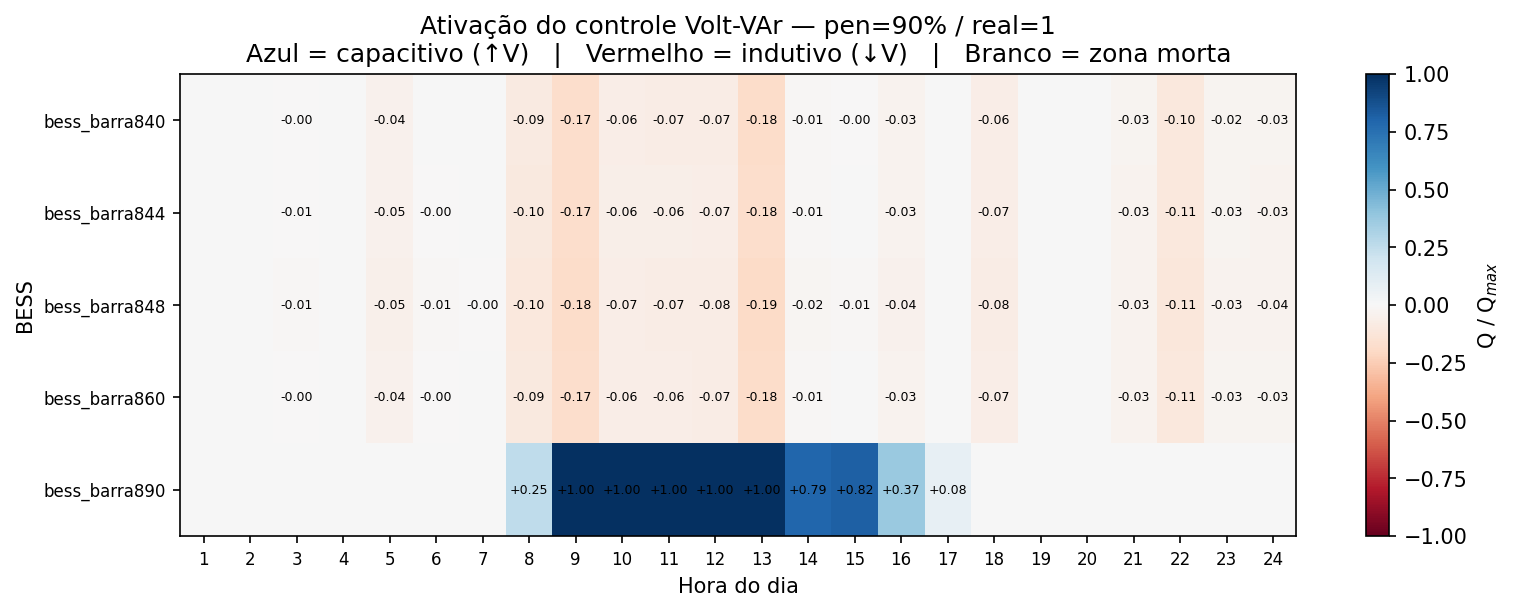
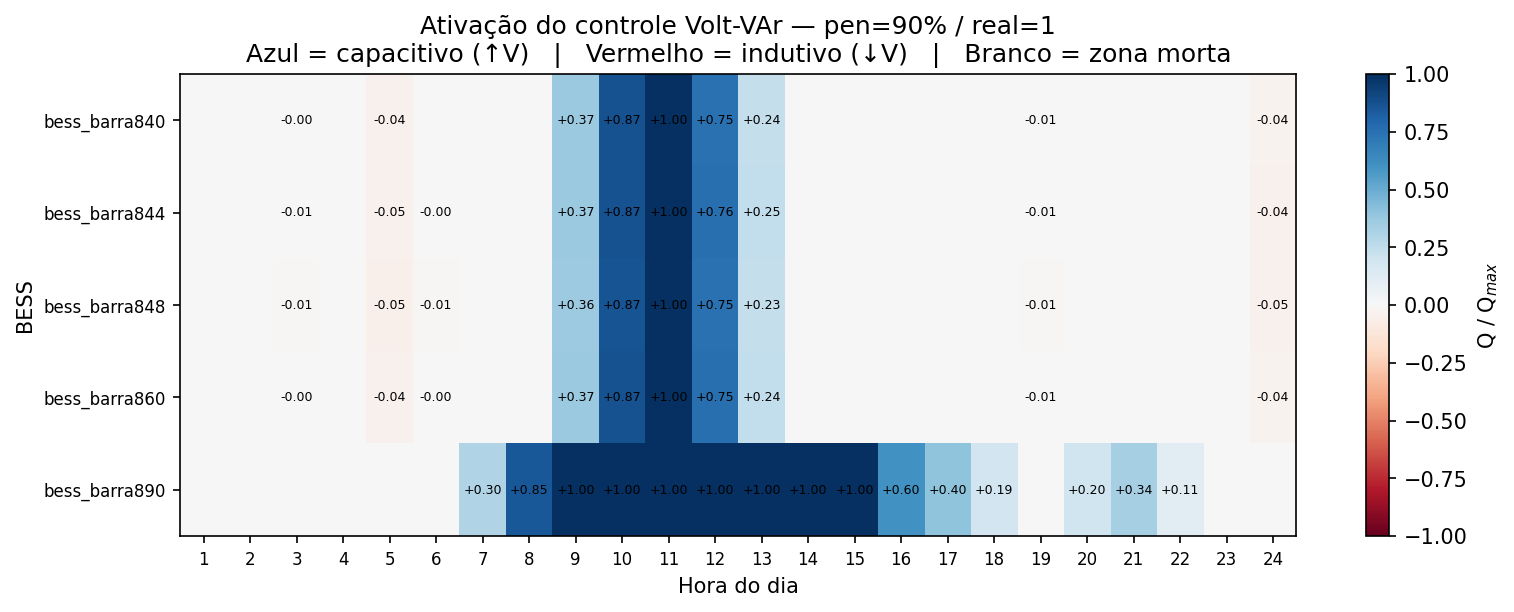
melhorei algoritmo de controle primario e configurei bess para seguir curva diaria

Changed region(s): [[0.2794, 0.0931, 0.8071, 0.9003], [0.6519, 0.1863, 0.683, 0.2173]]

diff --git a/1.5_controle_primario/0_controle_primario.py b/1.5_controle_primario/0_controle_primario.py
@@ -380,7 +380,7 @@ def add_realizacao_elements(pen_pct: int, id_realizacao: int) -> tuple:
             dss.Command(
                 f"New Storage.{nome} Bus1={barra} Phases=3 Conn=Wye "
                 f"kV=24.9 kWrated={p_kw:.2f} kWhrated={e_kwh:.2f} "
-                f"%stored=50 State=Idling daily=BESS_fixo"
+                f"%stored=50 dispmode=follow daily=BESS_fixo"
             )
             print(f"[BESS] '{nome}' | bus={barra} | Pnom={p_kw:.1f} kW | E={e_kwh:.1f} kWh")
             n_bess += 1
@@ -394,6 +394,7 @@ def add_realizacao_elements(pen_pct: int, id_realizacao: int) -> tuple:
 # ---------------------------------------------------------------------------
 # COMPILAR A REDE
 # ---------------------------------------------------------------------------
+dss.Command("Clear")
 dss.Command(f"compile [{BASE_DSS}]")
 n_pv, n_bess, bess_prof, fatores_carga = add_realizacao_elements(PEN_PCT, ID_REALIZACAO)
 
@@ -448,62 +449,44 @@ for hour in range(TOTAL_HOURS):
     print(f"Hora {hour+1:02d}/{TOTAL_HOURS}")
     print(f"{'='*60}")
 
-    # -----------------------------------------------------------------
-    # Passo 1: despacho ativo do BESS e fatores de incerteza de carga
-    # O State/kW precisam ser definidos antes do solve; o OpenDSS Storage
-    # não segue a daily LoadShape automaticamente com State=Idling.
-    # -----------------------------------------------------------------
-    mult = bess_prof[hour]
-    for name, info in bess_dict.items():
-        set_bess_dispatch(name, mult, info["pnom_kw"])
-    aplicar_fatores_carga(hour, cargas_base, fatores_carga)
+    aplicar_fatores_carga(hour, cargas_base, fatores_carga) # cenário
 
     # -----------------------------------------------------------------
-    # Passo 2: daily solve — avança o tempo, aplica LoadShapes corretos
+    # daily solve — avança o tempo, aplica LoadShapes corretos
     # Reguladores habilitados → ajustam taps com base no estado real
     # da rede (incluindo Q_anterior dos BESSs)
     # -----------------------------------------------------------------
-    enable_regulators(reg_names)
     dss.Command("solve")
-    tap_snapshot = capture_taps(reg_names)
-    disable_regulators(reg_names)
 
+    tap_snapshot = capture_taps(reg_names)
     if reg_names:
         for reg, info in tap_snapshot.items():
             print(f"  [Tap hora {hour+1:02d}] {reg}: tap={info['tap']:.6f}")
+    enable_regulators(reg_names)
 
-    # -----------------------------------------------------------------
-    # Passo 3: lê tensão em cada barra de BESS (com Q anterior aplicado)
-    # -----------------------------------------------------------------
+    # lê tensão em cada barra de BESS (com Q anterior aplicado)
     v_measured = {name: get_bus_vmag_pu(info["bus"]) for name, info in bess_dict.items()}
 
-    # -----------------------------------------------------------------
-    # Passo 4: UMA avaliação da curva Volt-VAr
-    # -----------------------------------------------------------------
+    # UMA avaliação da curva Volt-VAr
     q_new = {
         name: volt_var_curve(v_measured[name], info["pnom_kw"])
         for name, info in bess_dict.items()
     }
 
-    # -----------------------------------------------------------------
-    # Passo 5: aplica Q novo e re-resolve a MESMA hora em snapshot
-    # (sem avançar o contador de tempo do modo daily)
-    # -----------------------------------------------------------------
+    # aplica Q novo no BESSs (desabilitando reguladores para evitar interferência, se q!=0)
     for name, q in q_new.items():
-        set_bess_kvar(name, q)
-    #dss.Command("set mode=snapshot")
-    #dss.Command("solve")
-    #dss.Command("set mode=daily")
-    #restore_tap(tap_snapshot)
+        if q != 0:
+            disable_regulators(reg_names)
+            set_bess_kvar(name, q)
 
-    # Consulta SOC e estado de cada BESS após o solve desta hora (TODOs 3 e 4)
+
+    # Consulta SOC e estado de cada BESS após o solve desta hora
     soc_info = {name: get_bess_soc(name) for name in bess_dict}
 
     # -----------------------------------------------------------------
-    # Passo 6: coleta resultados por BESS
+    # Coleta resultados por BESS
     # -----------------------------------------------------------------
     for name, info in bess_dict.items():
-        v_final = get_bus_vmag_pu(info["bus"])
         q_kvar  = q_new[name]
         q_max   = Q_MAX_PU * info["pnom_kw"]
         soc, bess_state = soc_info[name]
@@ -525,12 +508,12 @@ for hour in range(TOTAL_HOURS):
             "bess_state": bess_state,
             "soc_warn":   soc_warn,
         })
-        print(f"  [BESS {name}] V_med={v_measured[name]:.4f} → V_fin={v_final:.4f} p.u. | "
+        print(f"  [BESS {name}] V_med={v_measured[name]:.4f} | "
               f"Q={q_kvar:.2f} kvar ({'ativo' if q_kvar != 0 else 'zona morta'}) | "
               f"SOC={soc:.1f}% [{bess_state}]")
 
     # -----------------------------------------------------------------
-    # Passo 7: violações de tensão (após snapshot com Q novo)
+    # violações de tensão (naquela hora)
     # -----------------------------------------------------------------
     n_viol, viol_dict = count_voltage_violations()
     print(f"  [Violações] hora {hour+1:02d}: {n_viol} barra(s) fora de [0.95, 1.05] p.u.")
@@ -541,11 +524,6 @@ for hour in range(TOTAL_HOURS):
             if info["over"]:  partes.append(f"↑V_max={info['v_max']:.4f}")
             print(f"    barra {b}: {', '.join(partes)}")
     hour_records.append({"hour": hour + 1, "n_violations": n_viol, "violations": viol_dict})
-
-    # -----------------------------------------------------------------
-    # Atualiza Q para a próxima hora
-    # -----------------------------------------------------------------
-    #q_applied = q_new
 
 # ---------------------------------------------------------------------------
 # FUNÇÕES DE VISUALIZAÇÃO PÓS-SIMULAÇÃO